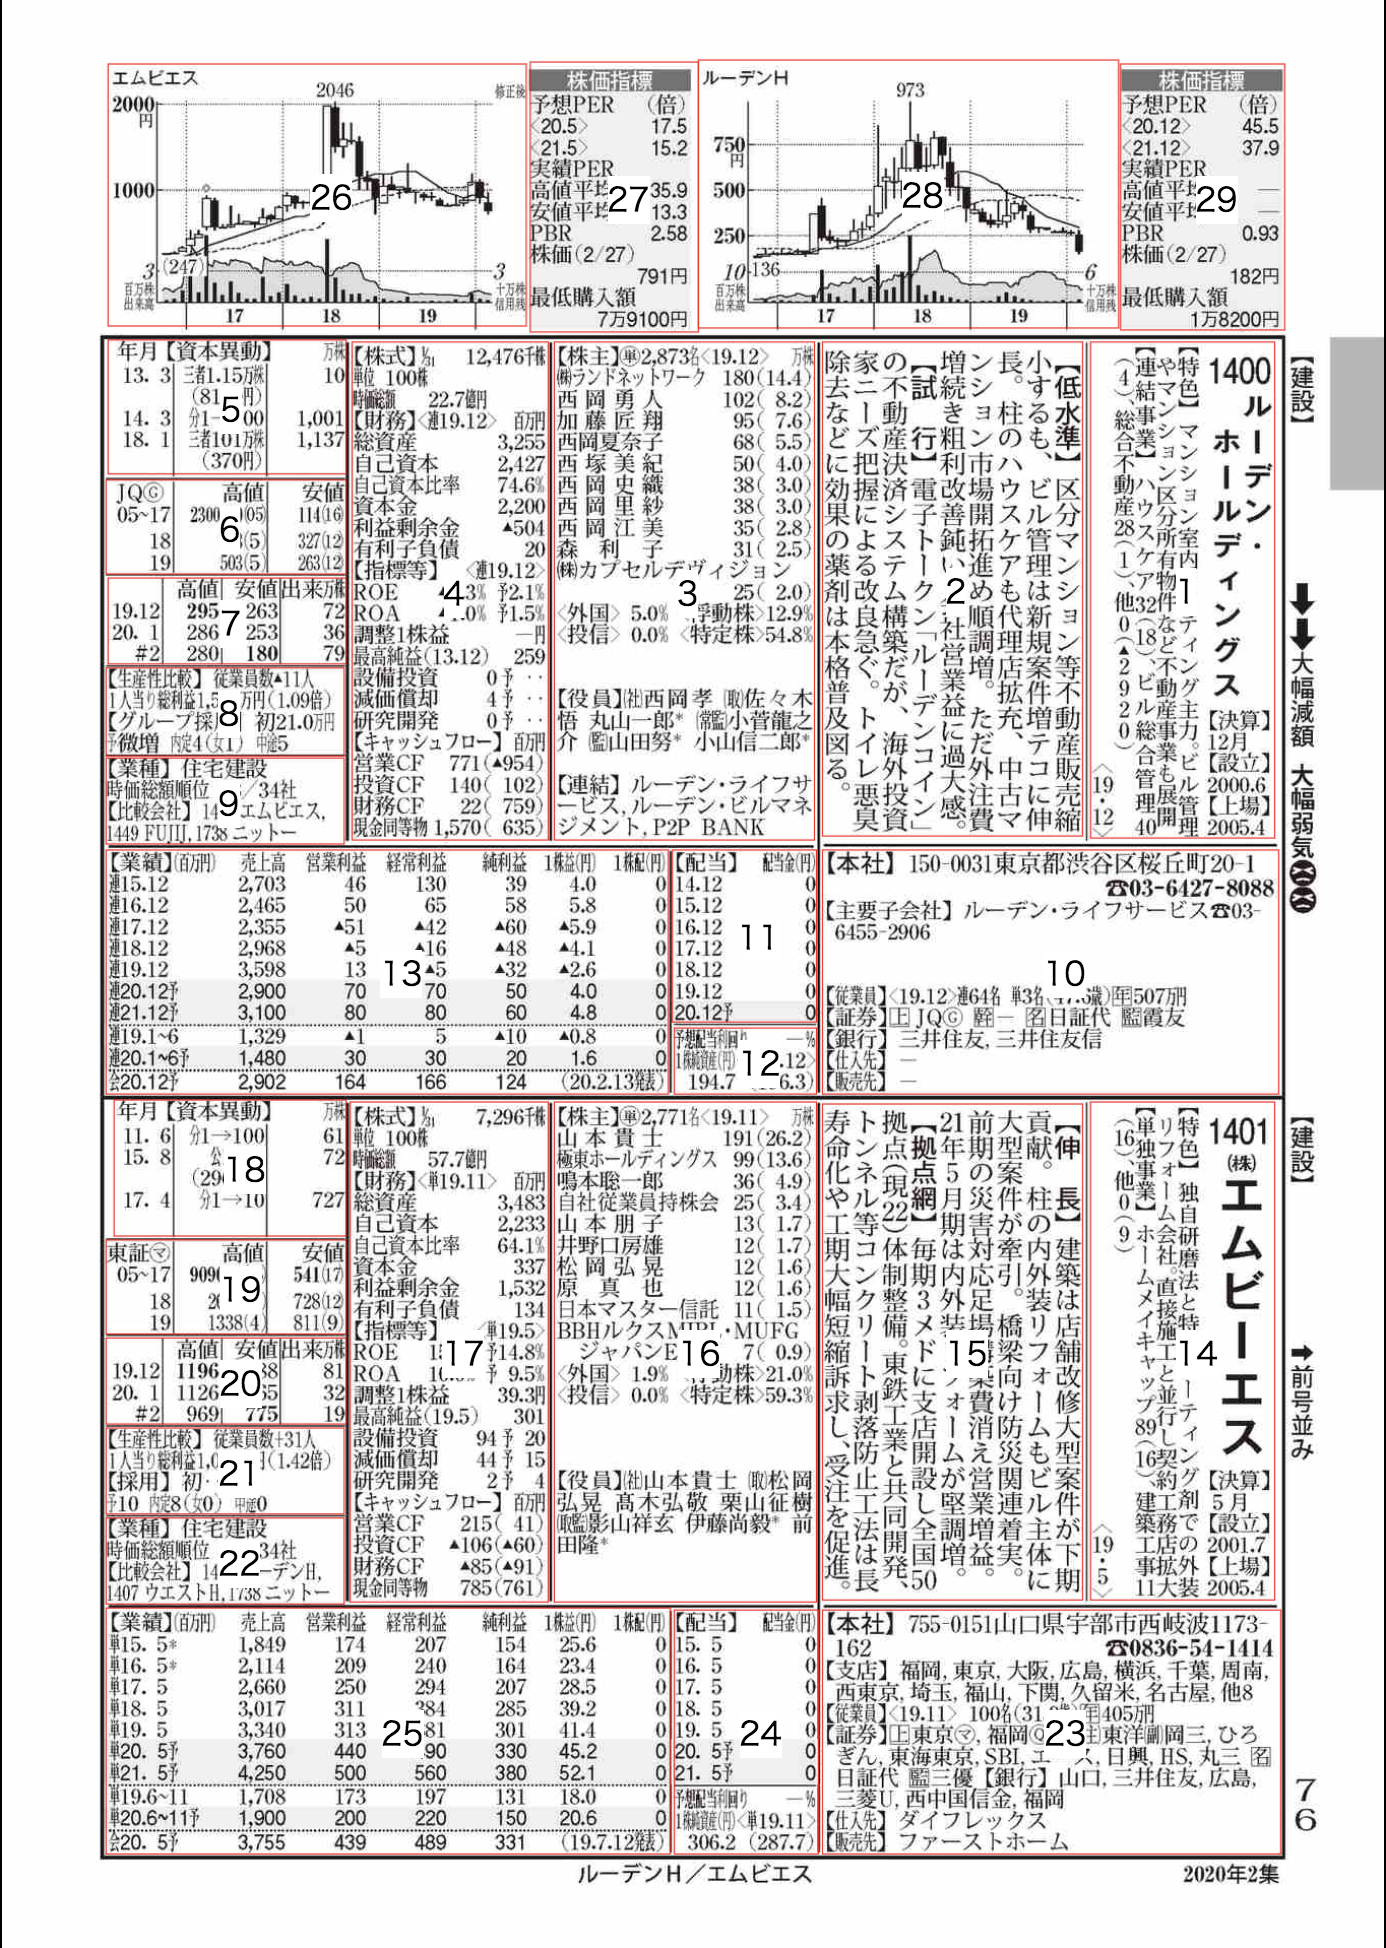
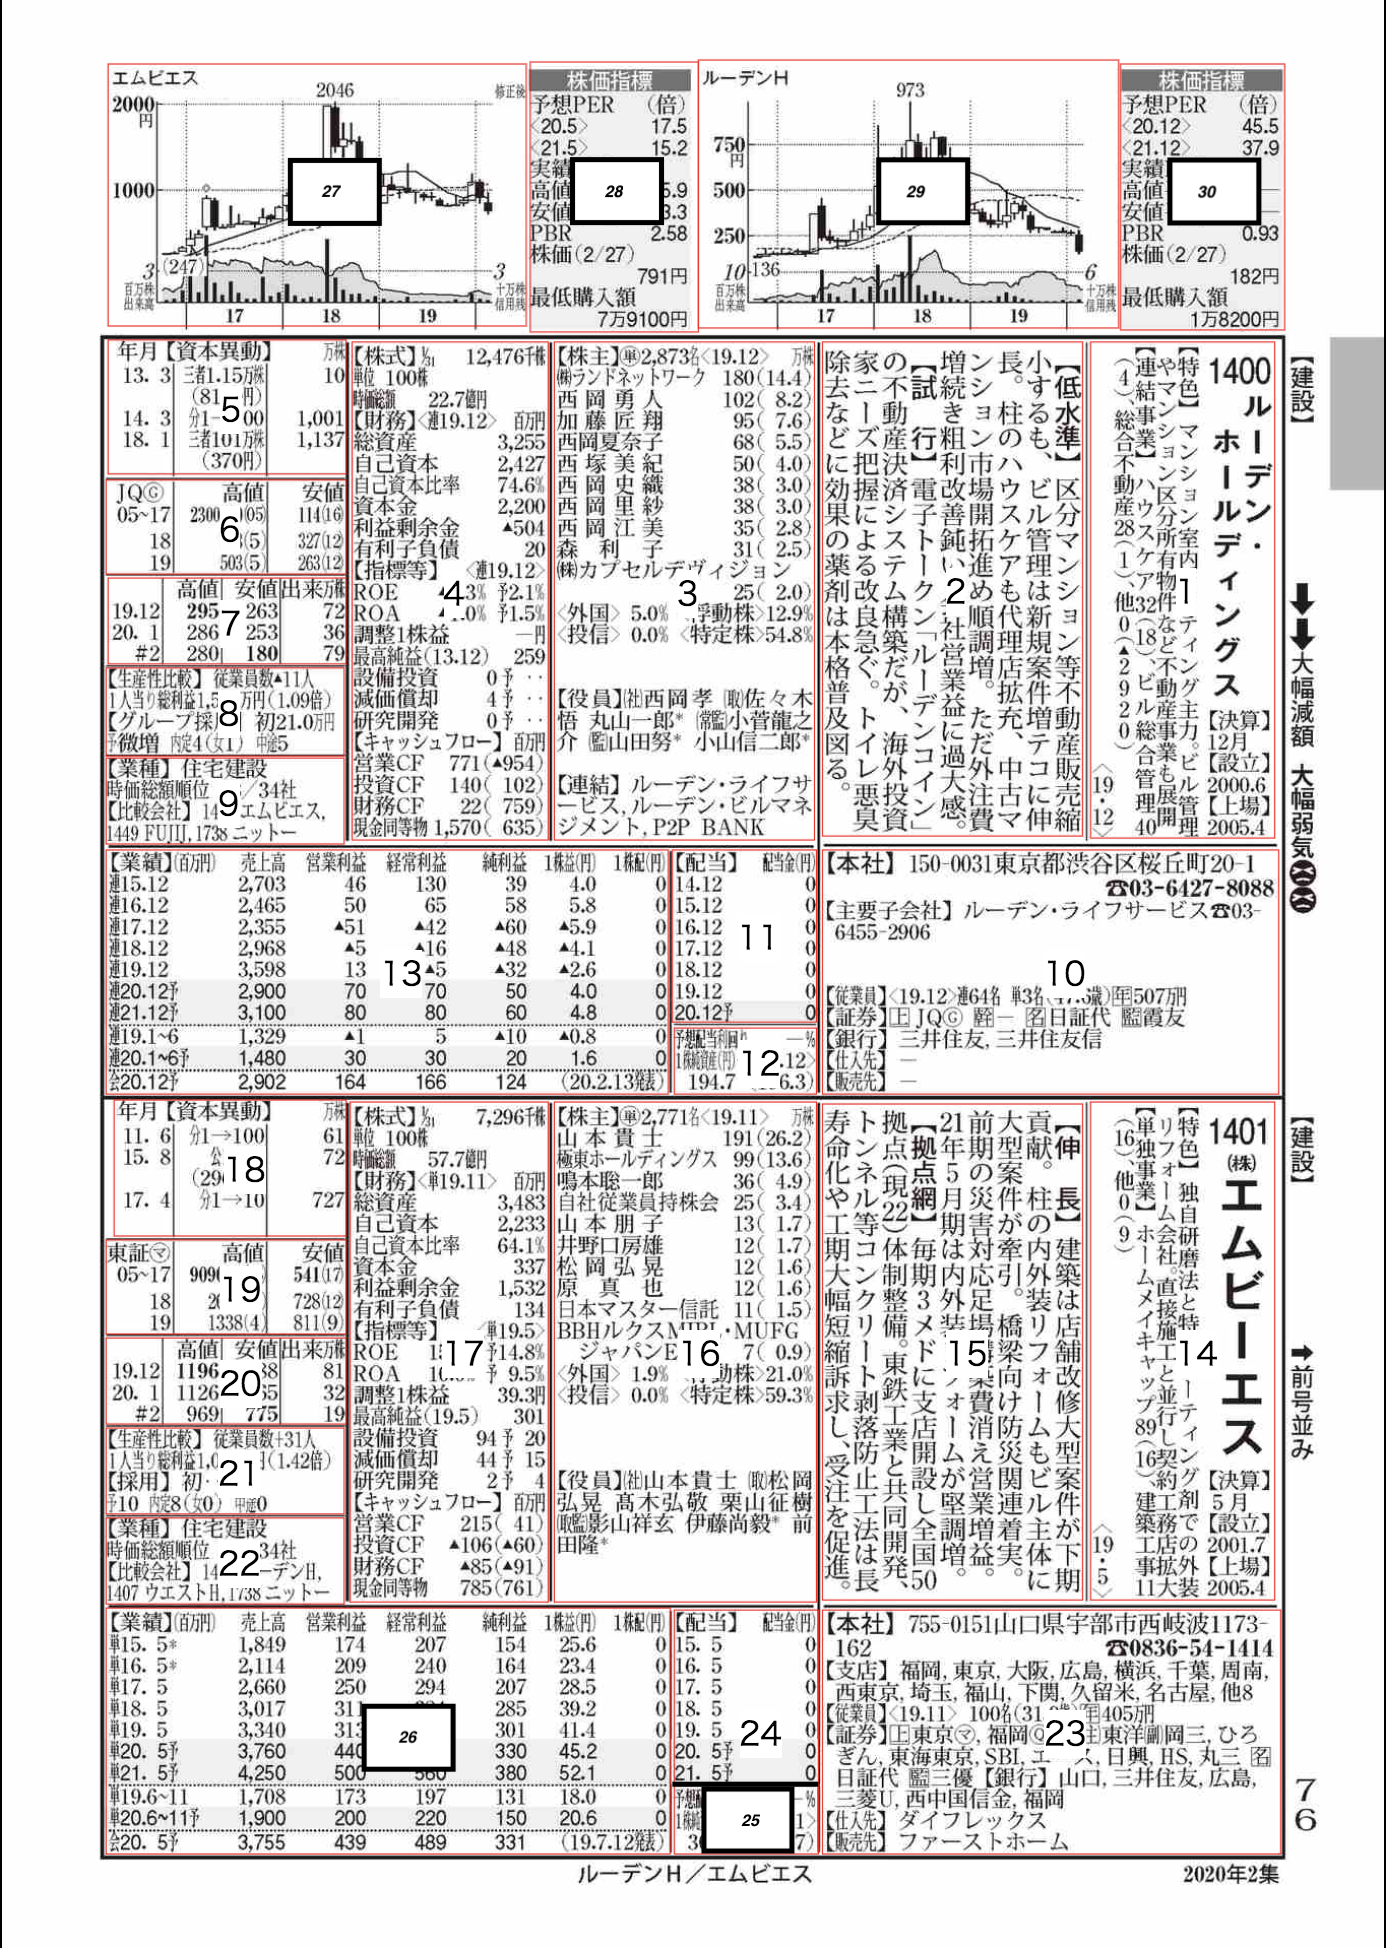
add crop script

diff --git a/crop.py b/crop.py
@@ -1,6 +1,6 @@
 import cv2
 
-# mkdir `seq 1 29`
+# mkdir `seq 1 30`
 
 # 77-1959
 start_page = 77
@@ -13,116 +13,122 @@ for i in range(start_page, end_page + 1):
 
   # 1
   crop_img = org_img[337:825, 1071:1252]
-  cv2.imwrite('1/{}.jpg'.format(file_name_num), crop_img)
+  cv2.imwrite('out/1/{}.jpg'.format(file_name_num), crop_img)
 
   # 2
   crop_img = org_img[337:823, 807:1063]
-  cv2.imwrite('2/{}.jpg'.format(file_name_num), crop_img)
+  cv2.imwrite('out/2/{}.jpg'.format(file_name_num), crop_img)
 
   # 3
   crop_img = org_img[337:827, 544:800]
-  cv2.imwrite('3/{}.jpg'.format(file_name_num), crop_img)
+  cv2.imwrite('out/3/{}.jpg'.format(file_name_num), crop_img)
 
   # 4
   crop_img = org_img[337:827, 345:538]
-  cv2.imwrite('4/{}.jpg'.format(file_name_num), crop_img)
+  cv2.imwrite('out/4/{}.jpg'.format(file_name_num), crop_img)
 
   # 5
   crop_img = org_img[335:467, 104:339]
-  cv2.imwrite('5/{}.jpg'.format(file_name_num), crop_img)
+  cv2.imwrite('out/5/{}.jpg'.format(file_name_num), crop_img)
 
   # 6
   crop_img = org_img[473:565, 102:339]
-  cv2.imwrite('6/{}.jpg'.format(file_name_num), crop_img)
+  cv2.imwrite('out/6/{}.jpg'.format(file_name_num), crop_img)
 
   # 7
   crop_img = org_img[569:654, 104:339]
-  cv2.imwrite('7/{}.jpg'.format(file_name_num), crop_img)
+  cv2.imwrite('out/7/{}.jpg'.format(file_name_num), crop_img)
 
   # 8
   crop_img = org_img[658:744, 102:337]
-  cv2.imwrite('8/{}.jpg'.format(file_name_num), crop_img)
+  cv2.imwrite('out/8/{}.jpg'.format(file_name_num), crop_img)
 
   # 9
   crop_img = org_img[746:831, 102:337]
-  cv2.imwrite('9/{}.jpg'.format(file_name_num), crop_img)
+  cv2.imwrite('out/9/{}.jpg'.format(file_name_num), crop_img)
 
   # 10
   crop_img = org_img[837:1077, 807:1256]
-  cv2.imwrite('10/{}.jpg'.format(file_name_num), crop_img)
+  cv2.imwrite('out/10/{}.jpg'.format(file_name_num), crop_img)
 
   # 11
   crop_img = org_img[837:1006, 660:801]
-  cv2.imwrite('11/{}.jpg'.format(file_name_num), crop_img)
+  cv2.imwrite('out/11/{}.jpg'.format(file_name_num), crop_img)
 
   # 12
   crop_img = org_img[1012:1077, 662:801]
-  cv2.imwrite('12/{}.jpg'.format(file_name_num), crop_img)
+  cv2.imwrite('out/12/{}.jpg'.format(file_name_num), crop_img)
 
   # 13
   crop_img = org_img[837:1077, 102:656]
-  cv2.imwrite('13/{}.jpg'.format(file_name_num), crop_img)
+  cv2.imwrite('out/13/{}.jpg'.format(file_name_num), crop_img)
 
   # 14
   crop_img = org_img[1085:1575, 1071:1252]
-  cv2.imwrite('14/{}.jpg'.format(file_name_num), crop_img)
+  cv2.imwrite('out/14/{}.jpg'.format(file_name_num), crop_img)
 
   # 15
   crop_img = org_img[1087:1575, 807:1063]
-  cv2.imwrite('15/{}.jpg'.format(file_name_num), crop_img)
+  cv2.imwrite('out/15/{}.jpg'.format(file_name_num), crop_img)
 
   # 16
   crop_img = org_img[1085:1577, 544:801]
-  cv2.imwrite('16/{}.jpg'.format(file_name_num), crop_img)
+  cv2.imwrite('out/16/{}.jpg'.format(file_name_num), crop_img)
 
   # 17
   crop_img = org_img[1085:1577, 343:538]
-  cv2.imwrite('17/{}.jpg'.format(file_name_num), crop_img)
+  cv2.imwrite('out/17/{}.jpg'.format(file_name_num), crop_img)
 
   # 18
   crop_img = org_img[1083:1217, 110:339]
-  cv2.imwrite('18/{}.jpg'.format(file_name_num), crop_img)
+  cv2.imwrite('out/18/{}.jpg'.format(file_name_num), crop_img)
 
   # 19
   crop_img = org_img[1221:1313, 102:339]
-  cv2.imwrite('19/{}.jpg'.format(file_name_num), crop_img)
+  cv2.imwrite('out/19/{}.jpg'.format(file_name_num), crop_img)
 
   # 20
   crop_img = org_img[1317:1402, 102:339]
-  cv2.imwrite('20/{}.jpg'.format(file_name_num), crop_img)
+  cv2.imwrite('out/20/{}.jpg'.format(file_name_num), crop_img)
 
   # 21
   crop_img = org_img[1406:1491, 102:337]
-  cv2.imwrite('21/{}.jpg'.format(file_name_num), crop_img)
+  cv2.imwrite('out/21/{}.jpg'.format(file_name_num), crop_img)
 
   # 22
   crop_img = org_img[1495:1579, 102:337]
-  cv2.imwrite('22/{}.jpg'.format(file_name_num), crop_img)
+  cv2.imwrite('out/22/{}.jpg'.format(file_name_num), crop_img)
 
   # 23
   crop_img = org_img[1585:1825, 807:1258]
-  cv2.imwrite('23/{}.jpg'.format(file_name_num), crop_img)
+  cv2.imwrite('out/23/{}.jpg'.format(file_name_num), crop_img)
 
   # 24
-  crop_img = org_img[1585:1825, 662:803]
-  cv2.imwrite('24/{}.jpg'.format(file_name_num), crop_img)
+  crop_img = org_img[1583:1759, 662:803]
+  cv2.imwrite('out/24/{}.jpg'.format(file_name_num), crop_img)
 
   # 25
-  crop_img = org_img[1583:1825, 102:658]
-  cv2.imwrite('25/{}.jpg'.format(file_name_num), crop_img)
+  crop_img = org_img[1759:1825, 660:801]
+  cv2.imwrite('out/25/{}.jpg'.format(file_name_num), crop_img)
 
   # 26
-  crop_img = org_img[61:329, 100:516]
-  cv2.imwrite('26/{}.jpg'.format(file_name_num), crop_img)
+  crop_img = org_img[1583:1825, 102:658]
+  cv2.imwrite('out/26/{}.jpg'.format(file_name_num), crop_img)
 
   # 27
-  crop_img = org_img[68:327, 520:678]
-  cv2.imwrite('27/{}.jpg'.format(file_name_num), crop_img)
+  crop_img = org_img[61:329, 100:516]
+  cv2.imwrite('out/27/{}.jpg'.format(file_name_num), crop_img)
 
   # 28
-  crop_img = org_img[59:323, 677:1099]
-  cv2.imwrite('28/{}.jpg'.format(file_name_num), crop_img)
+  crop_img = org_img[68:327, 520:678]
+  cv2.imwrite('out/28/{}.jpg'.format(file_name_num), crop_img)
 
   # 29
+  crop_img = org_img[59:323, 677:1099]
+  cv2.imwrite('out/29/{}.jpg'.format(file_name_num), crop_img)
+
+  # 30
   crop_img = org_img[68:327, 1101:1260]
-  cv2.imwrite('29/{}.jpg'.format(file_name_num), crop_img)
+  cv2.imwrite('out/30/{}.jpg'.format(file_name_num), crop_img)
+  
+  print('num: {}, {}% done'.format(i, int((i/end_page) * 100)))
